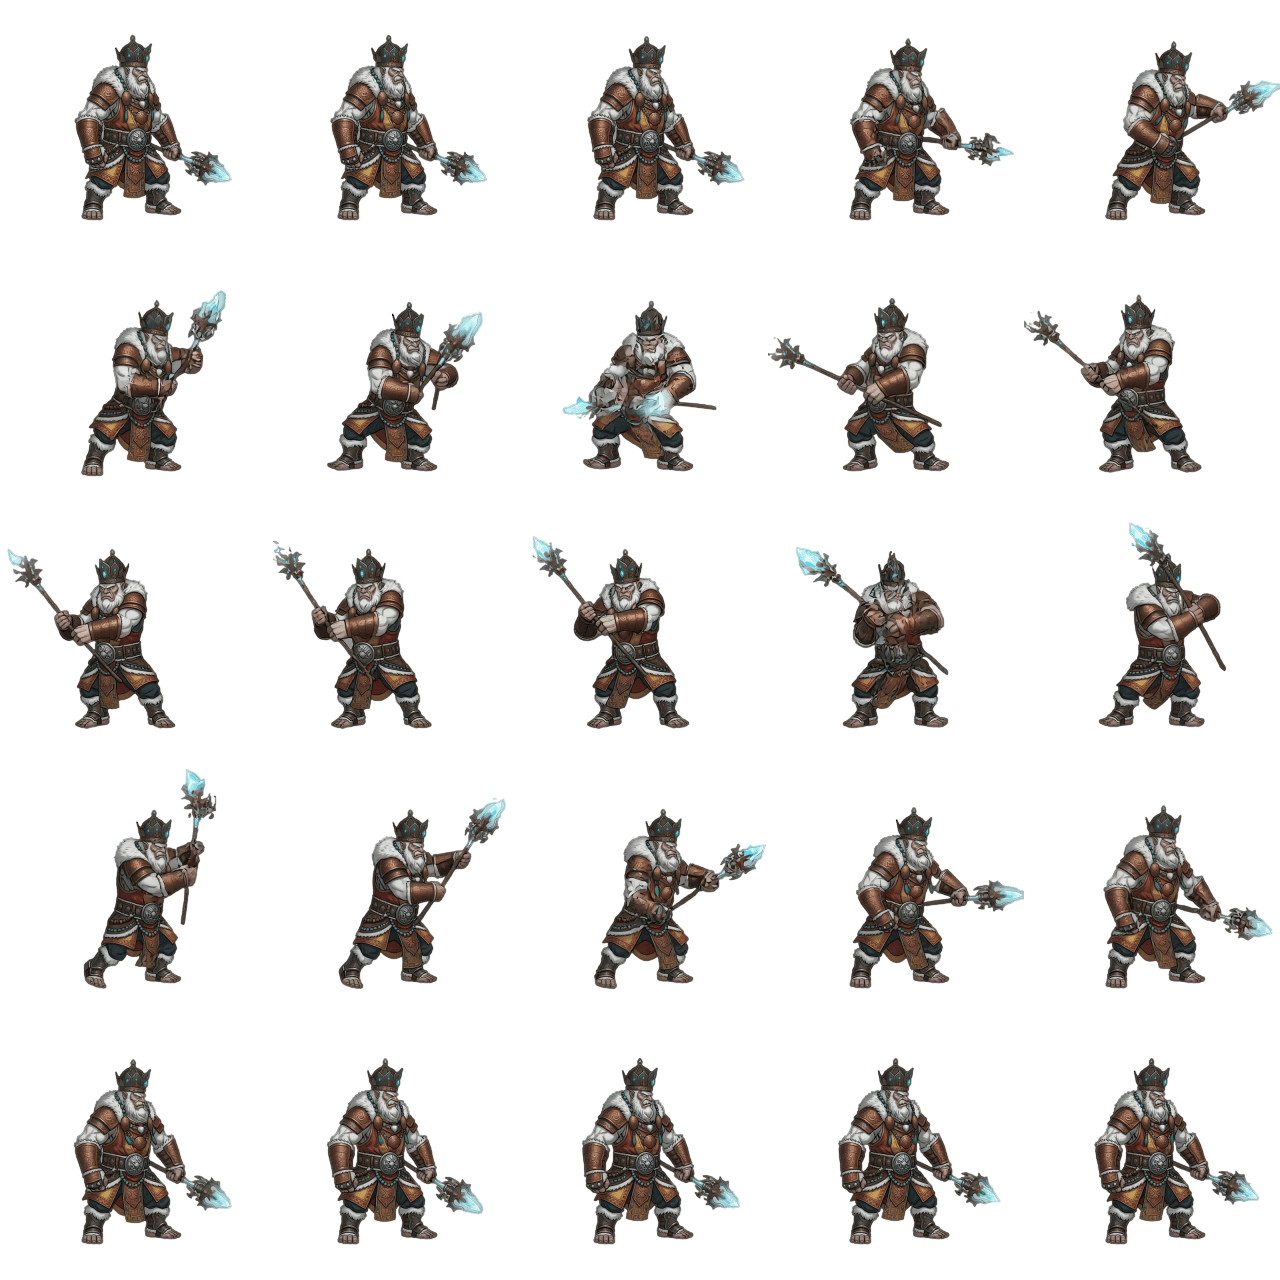
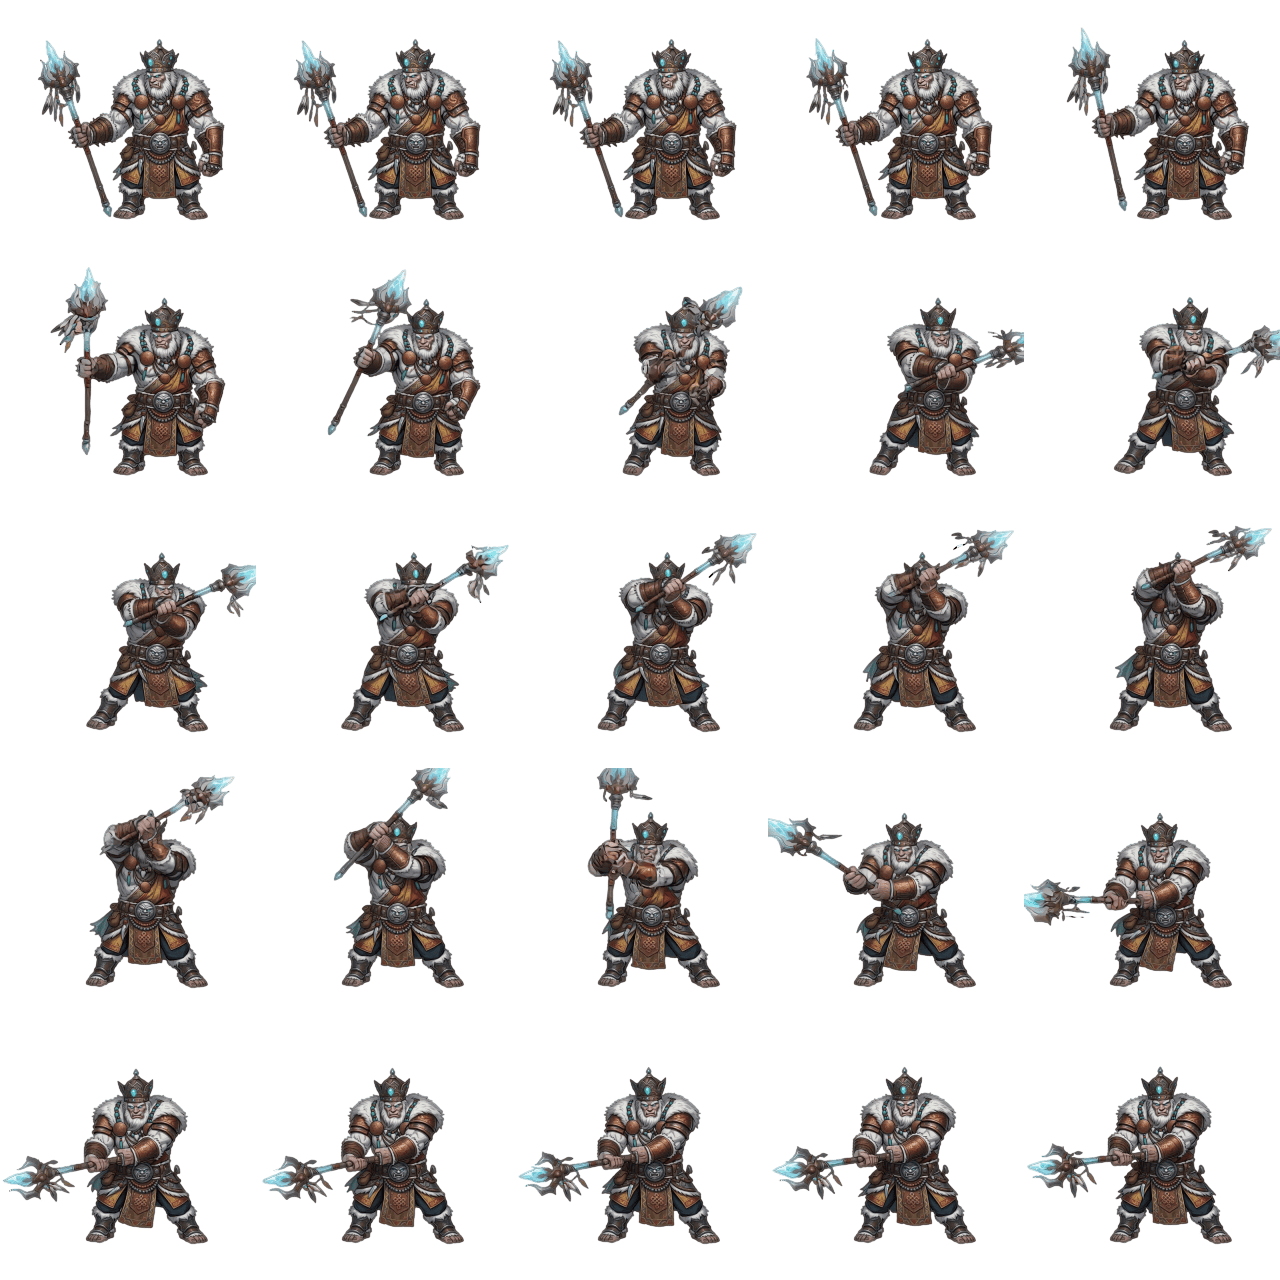
make some assets changes and yeti king

diff --git a/src/entities/enemies/Narapichas.js b/src/entities/enemies/Narapichas.js
@@ -1,5 +1,6 @@
 import Phaser from 'phaser';
 import Enemy from '../Enemy.js';
+import { dustBurst } from '../../systems/fx.js';
 
 // A Corrupted Monk's foot soldier — a spear/axe-wielding warrior that sprints
 // at the player and swings its polearm at close range.
@@ -75,15 +76,33 @@ export default class Narapichas extends Enemy {
 
   onDeath() {
     this._dying = true;
-    this.body.setVelocityX(0);
 
-    // No death sheet — fade out as a stand-in.
+    // No death sheet — a real collapse instead of hanging weightless mid-tip:
+    // Enemy.die() disables gravity, so turn it back on and let the knees
+    // buckle backward under it onto the floor collider. No rotation of the
+    // whole sprite — a full-body spin reads as flipping upside down rather
+    // than a fall (see SnowLeopard's death, which had the same problem).
+    this.body.setAllowGravity(true);
+    const knockDir = this.flipX ? 1 : -1;
+    this.body.setVelocity(knockDir * 90, -180);
+
+    // Crumple slightly as it drops — a stiff sprite just falling straight
+    // down doesn't read as a body giving out.
     this.scene.tweens.add({
-      targets: this,
-      alpha: 0,
-      angle: 80,
-      duration: 500,
-      onComplete: () => this.destroy(),
+      targets: this, scaleY: this.scaleY * 0.85, duration: 350, ease: 'Sine.easeIn',
+    });
+
+    this.scene.time.delayedCall(420, () => {
+      if (!this.scene) return;
+      this.body.setVelocity(0, 0);
+      dustBurst(this.scene, this.x, this.body.bottom);
+
+      this.scene.tweens.add({
+        targets: this,
+        alpha: 0,
+        duration: 350,
+        onComplete: () => this.destroy(),
+      });
     });
   }
 }

diff --git a/src/entities/Enemy.js b/src/entities/Enemy.js
@@ -41,6 +41,13 @@ export default class Enemy extends Phaser.Physics.Arcade.Sprite {
     this.body.setGravityY(200);
     this.setDepth(10);   // above platform (depth 1)
 
+    // Floor safety, same fallback Player relies on (see Player._clampToFloor):
+    // scenes that set this to their FLOOR_Y guarantee the enemy's feet land
+    // exactly on the platform even if the floor collider ever misses a frame
+    // (fast fall, spawn-above-floor drop, etc). Left null (no-op) unless a
+    // scene opts in.
+    this.floorY = null;
+
     this.setupAnimations();
   }
 
@@ -49,6 +56,31 @@ export default class Enemy extends Phaser.Physics.Arcade.Sprite {
 
   // Subclasses override this for per-frame AI logic.
   updateBehavior(player, delta) {}
+
+  preUpdate(time, delta) {
+    super.preUpdate(time, delta);
+    this._clampToFloor();
+  }
+
+  // Ground-enemies-only lock (none of them jump/fly): while alive, pin the
+  // enemy to its resting Y every frame rather than only catching it when it
+  // sinks below — the floor collider alone wasn't reliably grounding enemies
+  // (see Stage3Scene's YetiKing/SnowLeopard, which visibly hovered above the
+  // ice even after spawning with a matching Y, i.e. stuck ABOVE the resting
+  // line, which a "only correct downward" clamp can't fix). onDeath's
+  // knockback pop (SnowLeopard/Narapichas) runs after `alive` is already
+  // false, so it's unaffected.
+  // Resting Y is derived from this enemy's own body offset/height (set
+  // per-subclass via setSize/setOffset) rather than a hardcoded constant, so
+  // it works for any enemy's body — just set `enemy.floorY` at spawn time.
+  _clampToFloor() {
+    if (this.floorY === null || !this.body || !this.alive) return;
+    const restY = this.floorY - (this.body.offset.y + this.body.sourceHeight - 128) * this.scaleY;
+    if (this.y !== restY) {
+      this.setY(restY);
+      if (this.body.velocity.y !== 0) this.body.setVelocityY(0);
+    }
+  }
 
   takeDamage(amount, knockbackX = 0) {
     if (!this.alive) return;

diff --git a/src/entities/bosses/YetiKing.js b/src/entities/bosses/YetiKing.js
@@ -15,7 +15,10 @@ const YETI_STOP_RANGE = 220;    // holds this distance once close enough to cast
 const YETI_MELEE_RANGE     = 170;
 const YETI_MELEE_DMG       = 28;
 const YETI_MELEE_COOLDOWN  = 1300;
-const YETI_MELEE_HIT_FRAME = 6;   // local index in the trimmed attack clip
+const YETI_MELEE_HIT_FRAME = 11;  // frame index in the full attack clip (see
+                                   // animations.js yeti.attack) where the mace
+                                   // is fully extended/glowing — must stay in
+                                   // sync if that array ever changes
 
 // The ground-slam blizzard — a screen-wide AOE cast on a fixed clock. Deals
 // only a little damage; the drama is the storm covering the whole screen.
@@ -25,15 +28,17 @@ const YETI_BLIZZARD_TRIGGER_FRAME = 5;   // where the frost burst first appears
 
 // The yeti sheets are NOT drawn with a consistent default facing (they're
 // AI-generated, not hand-authored — this project has hit the same issue with
-// other enemies' sheets too). idle and rangeattack (both from
-// range-attack.png) face LEFT by default — confirmed empirically in play.
+// other enemies' sheets too). idle.png and range-attack.png both face LEFT
+// by default — confirmed by inspecting the sheets directly (staff/weapon
+// held on the character's left, same calm-stance pose in both).
 // run.png was visually compared frame-by-frame against range-attack.png
 // (leading leg + torso lean) and does NOT match — it faces RIGHT by default,
 // confirmed by inspecting the sheet directly (leading leg/staff both point
 // right, opposite of range-attack.png's left-facing pose).
-// normal-attack.png was visually compared against it and appears mirrored
-// (facing RIGHT) — inferred, not yet play-confirmed; if the melee swing
-// still faces the wrong way in testing, flip this single entry.
+// normal-attack.png is drawn front-facing/3-quarter (not a clean left/right
+// profile like the other three sheets), so flipping it doesn't read as
+// strongly as a facing change — it's left out of this set; if the melee
+// swing looks mirrored in testing, add 'yeti-attack' here.
 const LEFT_FACING_ANIMS = new Set(['yeti-idle', 'yeti-rangeattack']);
 
 // The Yeti King lumbers toward the player when far away, then holds his
@@ -58,12 +63,16 @@ export default class YetiKing extends Enemy {
     // Feet contact the ground at ~row 218 of the 256px frame (the deeper
     // pixels in the slam frames are the ice-splash VFX, not feet). Stage3's
     // floor collider top (FLOOR_Y) sits 33 world-px ABOVE the visible ice
-    // deck, so the body bottom must be 33/scale ≈ 25 texture-px above the
-    // feet → texture row ~193 (offsetY + sizeH = 193). Gravity (inherited
-    // from Enemy) settles him onto the floor collider exactly like every
-    // other enemy in this stage — no hand-picked spawn Y needed.
+    // deck. Gravity (inherited from Enemy) settles him onto the floor collider
+    // exactly like every other enemy in this stage — no hand-picked spawn Y.
+    //
+    // Like SnowLeopard, the derived rest line still left him hovering above the
+    // ice, so drop the sprite ~7% of its height by lowering offset.y (55 → 37,
+    // an 18 texture-px = 23 world-px drop at scale 1.3). _clampToFloor pins
+    // body.bottom to FLOOR_Y, so the world hitbox is independent of offset.y —
+    // this shifts ONLY the visual down; hitbox + death landing are unchanged.
     this.body.setSize(140, 138);
-    this.body.setOffset(60, 55);
+    this.body.setOffset(60, 37);
     // `pushable`, unlike `immovable`, only affects the velocity/position
     // exchange in dynamic-vs-dynamic separation (player collider) — it
     // doesn't touch the dynamic-vs-static floor collider, so it doesn't

diff --git a/src/scenes/Stage2Scene.js b/src/scenes/Stage2Scene.js
@@ -28,16 +28,16 @@ const LEVEL_WIDTH  = 5120;
 // Walkable surface (world y) where character feet rest.
 const FLOOR_Y      = 520;
 
-// Background native 1774×887 → scaled to fill the 720px-tall view.
-const BG_SCALE     = GAME_HEIGHT / 887;           // 0.812
-const BG_TILE_W    = 1774 * BG_SCALE;             // ~1440
+// Background native 1728×503 → scaled to fill the 720px-tall view.
+const BG_SCALE     = GAME_HEIGHT / 503;           // 1.431
+const BG_TILE_W    = 1728 * BG_SCALE;             // ~2473
 
-// Platform native 949×1024, walkable bridge deck at row ~367.
+// Platform native 915×499, walkable bridge deck at row ~81.
 // The deck is opaque edge-to-edge, so tiles of exactly PLAT_TILE_W butt together
 // seamlessly with no gap.
 const PLAT_SCALE   = 0.65;
-const PLAT_TILE_W  = 949 * PLAT_SCALE;            // ~617
-const PLAT_SURFACE = 367 * PLAT_SCALE;            // ~239px from image top to deck
+const PLAT_TILE_W  = 915 * PLAT_SCALE;            // ~595
+const PLAT_SURFACE = 81 * PLAT_SCALE;             // ~53px from image top to deck
 
 // The player's body bottom (collider rest) rests at FLOOR_Y; his visible feet
 // (foot mass, not the sword tip) sit ~33px lower. Put the deck at that foot line.
@@ -131,7 +131,15 @@ export default class Stage2Scene extends Phaser.Scene {
     const targets = this._boss && this._boss.alive ? [...liveEnemies, this._boss] : liveEnemies;
     this._player.update(delta, targets);
 
-    this._enemies.forEach((e) => { if (e.active) e.updateBehavior(this._player, delta); });
+    // _clampToFloor() is also wired into Enemy.preUpdate (runs for every
+    // active enemy automatically), but that path depends on Phaser's Update
+    // List timing/gating, which is hard to guarantee from outside the engine.
+    // Calling it again here piggybacks on this loop, which we know fires
+    // every frame for every active enemy (it's how their AI/movement already
+    // works) — belt and suspenders against the floating bug recurring (see
+    // Stage3Scene, where Narapichas/CorruptedMonk's counterparts hovered
+    // above the deck until this was wired up).
+    this._enemies.forEach((e) => { if (e.active) { e.updateBehavior(this._player, delta); e._clampToFloor(); } });
     // Don't trigger new waves during a story beat (intro emergence / boss beat).
     if (!this._player.inputLocked) this._checkTriggers();
     this._cullDeadEnemies();
@@ -143,6 +151,7 @@ export default class Stage2Scene extends Phaser.Scene {
 
     if (this._boss && this._boss.active) {
       this._boss.updateBehavior(this._player, delta);
+      this._boss._clampToFloor();
     }
 
     this._endCave?.update(this._player);
@@ -183,6 +192,7 @@ export default class Stage2Scene extends Phaser.Scene {
       case 'narapichas': enemy = new Narapichas(this, x, y); break;
       default: console.warn(`Unknown enemy type: ${type}`); return null;
     }
+    enemy.floorY = FLOOR_Y;
     this.physics.add.collider(enemy, this._floor);
     // No player↔enemy collider: the player can pass THROUGH/behind enemies to
     // flank them (the wave barrier still seals the arena).
@@ -204,6 +214,7 @@ export default class Stage2Scene extends Phaser.Scene {
   _spawnBoss() {
     this._bossSpawned = true;
     this._boss = new CorruptedMonk(this, BOSS_SPAWN_X, FLOOR_Y - 55);
+    this._boss.floorY = FLOOR_Y;
     this.physics.add.collider(this._boss, this._floor);
     this.events.emit('waveStarted', TOTAL_WAVE_COUNT, TOTAL_WAVE_COUNT);   // shows the BOSS banner in the HUD
   }
@@ -265,7 +276,7 @@ export default class Stage2Scene extends Phaser.Scene {
   }
 
   _buildPlatforms() {
-    // Tile the bridge so its deck (row 367) sits at the player's foot line (DECK_Y):
+    // Tile the bridge so its deck (row 81) sits at the player's foot line (DECK_Y):
     // image top = DECK_Y - PLAT_SURFACE. Tiles butt together with no gap.
     const numTiles = Math.ceil(LEVEL_WIDTH / PLAT_TILE_W) + 1;
     for (let i = 0; i < numTiles; i++) {

diff --git a/src/config/animations.js b/src/config/animations.js
@@ -221,18 +221,22 @@ export const ANIM_CONFIG = {
   },
 
   // ── Yeti King (Stage 3 final boss) ──────────────────────────────────────────
-  // idle        → frames 0-1 of the range-attack sheet (calm staff-planted
-  //               stance before the charge).
+  // idle        → full 25-frame dedicated idle.png loop (calm staff-planted
+  //               stance with subtle sway/breathing between frames).
   // run         → full 25-frame lumbering-approach cycle.
   // rangeattack → full 25-frame ground-slam. The frost burst first appears at
   //               frame 5, which is where the blizzard triggers (see YetiKing.js).
-  // attack      → normal-attack sheet, trimmed to the raise-swing-plant motion;
-  //               the staff/mace connects around local index 6.
+  // attack      → full 25-frame normal-attack sheet: idle-ready(0-4) →
+  //               windup/cross-swing(5-9) → rising diagonal cleave(10-14,
+  //               mace fully extended/glowing at 11) → retract(15-19) →
+  //               plant/brace hold(20-24). The mace connects at frame 11;
+  //               see YETI_MELEE_HIT_FRAME in YetiKing.js, which must stay
+  //               in sync with this array's index of that frame.
   yeti: {
     idle: {
-      sheet: 'yeti-rangeattack',
-      frames: [0, 1],
-      frameRate: 3,
+      sheet: 'yeti-idle',
+      frames: [0, 1, 2, 3, 4, 5, 6, 7, 8, 9, 10, 11, 12, 13, 14, 15, 16, 17, 18, 19, 20, 21, 22, 23, 24],
+      frameRate: 6,
       loop: true,
     },
     run: {
@@ -249,8 +253,8 @@ export const ANIM_CONFIG = {
     },
     attack: {
       sheet: 'yeti-attack',
-      frames: [5, 6, 7, 8, 9, 10, 11, 12, 13, 14],
-      frameRate: 16,
+      frames: [0, 1, 2, 3, 4, 5, 6, 7, 8, 9, 10, 11, 12, 13, 14, 15, 16, 17, 18, 19, 20, 21, 22, 23, 24],
+      frameRate: 24,
       loop: false,
     },
   },

diff --git a/src/entities/enemies/SnowLeopard.js b/src/entities/enemies/SnowLeopard.js
@@ -6,7 +6,7 @@ import { shake, impactSparks, dustBurst } from '../../systems/fx.js';
 // A corrupted snow leopard — fast, low-slung predator that stalks the player
 // across the glacier and lunges in with a snarling bite at close range.
 
-const LEOPARD_HP              = 150;
+const LEOPARD_HP              = 1;
 const LEOPARD_SPEED           = 230;
 const LEOPARD_ATTACK_DMG      = 24;
 // Player+enemy bodies collide (see Stage3Scene._spawnEnemy), which keeps their
@@ -26,8 +26,15 @@ export default class SnowLeopard extends Enemy {
     // 33px ABOVE the visible ice deck (see Stage3Scene's PLAYER_SINK) — every
     // character's body must be shortened by that same 33px so it lands on the
     // visible ice, not on the invisible physics line above it.
+    //
+    // The derived rest line still left the paws hovering slightly above the ice
+    // in play, so drop the sprite ~7% of its height (256*0.07 ≈ 18px) by lowering
+    // offset.y (48 → 30). Because _clampToFloor pins body.bottom to FLOOR_Y, the
+    // world hitbox is [FLOOR_Y - sourceHeight*scaleY, FLOOR_Y] regardless of
+    // offset.y — so this shifts ONLY the visual down; hitbox + death landing are
+    // unchanged.
     this.body.setSize(200, 98);
-    this.body.setOffset(20, 48);
+    this.body.setOffset(20, 30);
 
     this._attackCooldown = 0;
     this._attacking = false;

diff --git a/src/scenes/Stage1Scene.js b/src/scenes/Stage1Scene.js
@@ -229,10 +229,15 @@ export default class Stage1Scene extends Phaser.Scene {
     const SURFACE_OFFSET = 96;
     const PLAYER_SINK    = 25;
     const platformTopY   = FLOOR_Y + PLAYER_SINK - SURFACE_OFFSET;
+    // The art's left and right edges don't match (it wasn't painted as a seamless
+    // tile), so butting plain copies together left a visible seam every tile.
+    // Mirroring every other tile makes each join a reflection of itself — the
+    // pixels on both sides of every seam are now identical — so the seam
+    // disappears regardless of how the source art lines up.
     const numTiles = Math.ceil(LEVEL_WIDTH / PLATFORM_IMG_W) + 1;
     for (let i = 0; i < numTiles; i++) {
       this.add.image(i * PLATFORM_IMG_W + PLATFORM_IMG_W / 2, platformTopY, 'stage1-platform')
-        .setOrigin(0.5, 0).setDepth(1);
+        .setOrigin(0.5, 0).setFlipX(i % 2 === 1).setDepth(1);
     }
 
     // Solid invisible floor: one continuous static body across the whole level.
@@ -305,6 +310,10 @@ export default class Stage1Scene extends Phaser.Scene {
       case 'witch': enemy = new ForestWitch(this, x, y); break;
       default: console.warn(`Unknown enemy type: ${type}`); return null;
     }
+    // Ground-lock to the floor line (same as Stage 2/3): the collider alone
+    // doesn't reliably seat enemies on the platform — they can hover a few px
+    // above it. Enemy._clampToFloor pins them exactly once floorY is set.
+    enemy.floorY = FLOOR_Y;
     this.physics.add.collider(enemy, this._floor);
     return enemy;
   }

diff --git a/src/scenes/Stage3Scene.js b/src/scenes/Stage3Scene.js
@@ -125,7 +125,13 @@ export default class Stage3Scene extends Phaser.Scene {
     const targets = this._boss && this._boss.alive ? [...liveEnemies, this._boss] : liveEnemies;
     this._player.update(delta, targets);
 
-    this._enemies.forEach((e) => { if (e.active) e.updateBehavior(this._player, delta); });
+    // _clampToFloor() is also wired into Enemy.preUpdate (runs for every
+    // active enemy automatically), but that path depends on Phaser's Update
+    // List timing/gating, which is hard to guarantee from outside the engine.
+    // Calling it again here piggybacks on this loop, which we know fires
+    // every frame for every active enemy (it's how their AI/movement already
+    // works) — belt and suspenders against the floating bug recurring.
+    this._enemies.forEach((e) => { if (e.active) { e.updateBehavior(this._player, delta); e._clampToFloor(); } });
     // Don't trigger new waves during a story beat (intro emergence / boss beat).
     if (!this._player.inputLocked) this._checkTriggers();
     this._cullDeadEnemies();
@@ -138,6 +144,7 @@ export default class Stage3Scene extends Phaser.Scene {
 
     if (this._boss && this._boss.active) {
       this._boss.updateBehavior(this._player, delta);
+      this._boss._clampToFloor();
     }
   }
 
@@ -176,6 +183,7 @@ export default class Stage3Scene extends Phaser.Scene {
       case 'leopard': enemy = new SnowLeopard(this, x, y); break;
       default: console.warn(`Unknown enemy type: ${type}`); return null;
     }
+    enemy.floorY = FLOOR_Y;
     this.physics.add.collider(enemy, this._floor);
     // No player↔enemy collider: the player can pass THROUGH/behind enemies to
     // flank them (the wave barrier still seals the arena).
@@ -200,6 +208,7 @@ export default class Stage3Scene extends Phaser.Scene {
     // collider — same pattern as every other enemy in this stage (Narapichas,
     // SnowLeopard, CorruptedMonk), rather than a hand-picked "final" Y.
     this._boss = new YetiKing(this, BOSS_SPAWN_X, FLOOR_Y - 150);
+    this._boss.floorY = FLOOR_Y;
     this.physics.add.collider(this._boss, this._floor);
     // No player↔boss collider: the player can slip behind the Yeti King to flank.
     this.events.emit('waveStarted', TOTAL_WAVE_COUNT, TOTAL_WAVE_COUNT);   // shows the BOSS banner

diff --git a/src/scenes/BootScene.js b/src/scenes/BootScene.js
@@ -67,9 +67,10 @@ export default class BootScene extends Phaser.Scene {
     this.load.spritesheet('leopard-bite',  'assets/goons/corrupted-snow-leopard/bite.png', FRAME);
 
     // ── Yeti King (Stage 3 final boss) ───────────────────────────────────────
-    // range-attack.png supplies both the idle (its calm opening frames) and
-    // the ground-slam blizzard cast. normal-attack.png is the close-range
-    // swing. run.png is the lumbering-approach animation.
+    // idle.png is the dedicated calm-stance loop. range-attack.png is the
+    // ground-slam blizzard cast. normal-attack.png is the close-range swing.
+    // run.png is the lumbering-approach animation.
+    this.load.spritesheet('yeti-idle',        'assets/characters/yeti/idle.png',          FRAME);
     this.load.spritesheet('yeti-rangeattack', 'assets/characters/yeti/range-attack.png',  FRAME);
     this.load.spritesheet('yeti-attack',      'assets/characters/yeti/normal-attack.png', FRAME);
     this.load.spritesheet('yeti-run',         'assets/characters/yeti/run.png',           FRAME);

diff --git a/src/main.js b/src/main.js
@@ -47,4 +47,8 @@ const config = {
 const game = new Phaser.Game(config);
 
 // Expose the instance for dev tooling / automated smoke tests (harmless in prod).
-if (import.meta.env?.DEV) window.__EVERRISE__ = game;
+// import.meta.env is a Vite-only feature — it's simply absent when the game is
+// served directly by a plain static server (e.g. VS Code Live Server), which
+// this project explicitly supports via index.html's import map. Fall back to
+// always exposing it in that case rather than silently skipping.
+if (import.meta.env?.DEV ?? true) window.__EVERRISE__ = game;